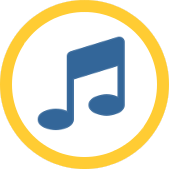
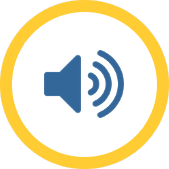
Add asset buttons for music and fonts to PyGameZero mode.

Changed region(s): [[0.2071, 0.2071, 0.7396, 0.7692]]

diff --git a/mu/modes/pygamezero.py b/mu/modes/pygamezero.py
@@ -61,11 +61,25 @@ class PyGameZeroMode(BaseMode):
                 'shortcut': 'Ctrl+Shift+I',
             },
             {
+                'name': 'fonts',
+                'display_name': _('Fonts'),
+                'description': _('Show the fonts used by Pygame Zero.'),
+                'handler': self.show_fonts,
+                'shortcut': 'Ctrl+Shift+F',
+            },
+            {
                 'name': 'sounds',
                 'display_name': _('Sounds'),
                 'description': _('Show the sounds used by Pygame Zero.'),
                 'handler': self.show_sounds,
                 'shortcut': 'Ctrl+Shift+S',
+            },
+            {
+                'name': 'music',
+                'display_name': _('Music'),
+                'description': _('Show the music used by Pygame Zero.'),
+                'handler': self.show_music,
+                'shortcut': 'Ctrl+Shift+M',
             },
         ]
 
@@ -145,6 +159,16 @@ class PyGameZeroMode(BaseMode):
         image_dir = os.path.join(self.workspace_dir(), 'images')
         self.view.open_directory_from_os(image_dir)
 
+    def show_fonts(self, event):
+        """
+        Open the directory containing the font assets used by PyGame Zero.
+
+        This should open the host OS's file system explorer so users can drag
+        new files into the opened folder.
+        """
+        image_dir = os.path.join(self.workspace_dir(), 'fonts')
+        self.view.open_directory_from_os(image_dir)
+
     def show_sounds(self, event):
         """
         Open the directory containing the sound assets used by PyGame Zero.
@@ -153,4 +177,14 @@ class PyGameZeroMode(BaseMode):
         new files into the opened folder.
         """
         sound_dir = os.path.join(self.workspace_dir(), 'sounds')
+        self.view.open_directory_from_os(sound_dir)
+
+    def show_music(self, event):
+        """
+        Open the directory containing the music assets used by PyGame Zero.
+
+        This should open the host OS's file system explorer so users can drag
+        new files into the opened folder.
+        """
+        sound_dir = os.path.join(self.workspace_dir(), 'music')
         self.view.open_directory_from_os(sound_dir)

diff --git a/tests/modes/test_pygamezero.py b/tests/modes/test_pygamezero.py
@@ -24,13 +24,17 @@ def test_pgzero_mode():
     assert pm.builtins
 
     actions = pm.actions()
-    assert len(actions) == 3
+    assert len(actions) == 5
     assert actions[0]['name'] == 'play'
     assert actions[0]['handler'] == pm.play_toggle
     assert actions[1]['name'] == 'images'
     assert actions[1]['handler'] == pm.show_images
-    assert actions[2]['name'] == 'sounds'
-    assert actions[2]['handler'] == pm.show_sounds
+    assert actions[2]['name'] == 'fonts'
+    assert actions[2]['handler'] == pm.show_fonts
+    assert actions[3]['name'] == 'sounds'
+    assert actions[3]['handler'] == pm.show_sounds
+    assert actions[4]['name'] == 'music'
+    assert actions[4]['handler'] == pm.show_music
 
 
 def test_pgzero_api():
@@ -194,6 +198,18 @@ def test_pgzero_show_images():
     view.open_directory_from_os.assert_called_once_with(image_dir)
 
 
+def test_pgzero_show_fonts():
+    """
+    The view is called to run the OS's file explorer for the given fonts path.
+    """
+    editor = mock.MagicMock()
+    view = mock.MagicMock()
+    pm = PyGameZeroMode(editor, view)
+    pm.show_fonts(None)
+    fonts_dir = os.path.join(pm.workspace_dir(), 'fonts')
+    view.open_directory_from_os.assert_called_once_with(fonts_dir)
+
+
 def test_pgzero_show_sounds():
     """
     The view is called to run the OS's file explorer for the given sounds path.
@@ -204,3 +220,15 @@ def test_pgzero_show_sounds():
     pm.show_sounds(None)
     sounds_dir = os.path.join(pm.workspace_dir(), 'sounds')
     view.open_directory_from_os.assert_called_once_with(sounds_dir)
+
+
+def test_pgzero_show_music():
+    """
+    The view is called to run the OS's file explorer for the given music path.
+    """
+    editor = mock.MagicMock()
+    view = mock.MagicMock()
+    pm = PyGameZeroMode(editor, view)
+    pm.show_music(None)
+    music_dir = os.path.join(pm.workspace_dir(), 'music')
+    view.open_directory_from_os.assert_called_once_with(music_dir)

diff --git a/mu/logic.py b/mu/logic.py
@@ -581,7 +581,9 @@ class Editor:
             os.makedirs(wd)
         # Ensure PyGameZero assets are copied over.
         images_path = os.path.join(wd, 'images')
+        fonts_path = os.path.join(wd, 'fonts')
         sounds_path = os.path.join(wd, 'sounds')
+        music_path = os.path.join(wd, 'music')
         if not os.path.exists(images_path):
             logger.debug('Creating directory: {}'.format(images_path))
             os.makedirs(images_path)
@@ -589,11 +591,17 @@ class Editor:
                         os.path.join(images_path, 'alien.png'))
             shutil.copy(path('alien_hurt.png', 'pygamezero/'),
                         os.path.join(images_path, 'alien_hurt.png'))
+        if not os.path.exists(fonts_path):
+            logger.debug('Creating directory: {}'.format(fonts_path))
+            os.makedirs(fonts_path)
         if not os.path.exists(sounds_path):
             logger.debug('Creating directory: {}'.format(sounds_path))
             os.makedirs(sounds_path)
             shutil.copy(path('eep.wav', 'pygamezero/'),
                         os.path.join(sounds_path, 'eep.wav'))
+        if not os.path.exists(music_path):
+            logger.debug('Creating directory: {}'.format(music_path))
+            os.makedirs(music_path)
         # Start the timer to poll every second for an attached or removed
         # USB device.
         self._view.set_usb_checker(1, self.check_usb)

diff --git a/tests/test_logic.py b/tests/test_logic.py
@@ -622,7 +622,7 @@ def test_editor_setup():
             mock.patch('os.makedirs', return_value=None) as mkd, \
             mock.patch('shutil.copy') as mock_shutil:
         e.setup(mock_modes)
-        assert mkd.call_count == 3
+        assert mkd.call_count == 5
         assert mkd.call_args_list[0][0][0] == 'foo'
         assert mock_shutil.call_count == 3
     assert e.modes == mock_modes
